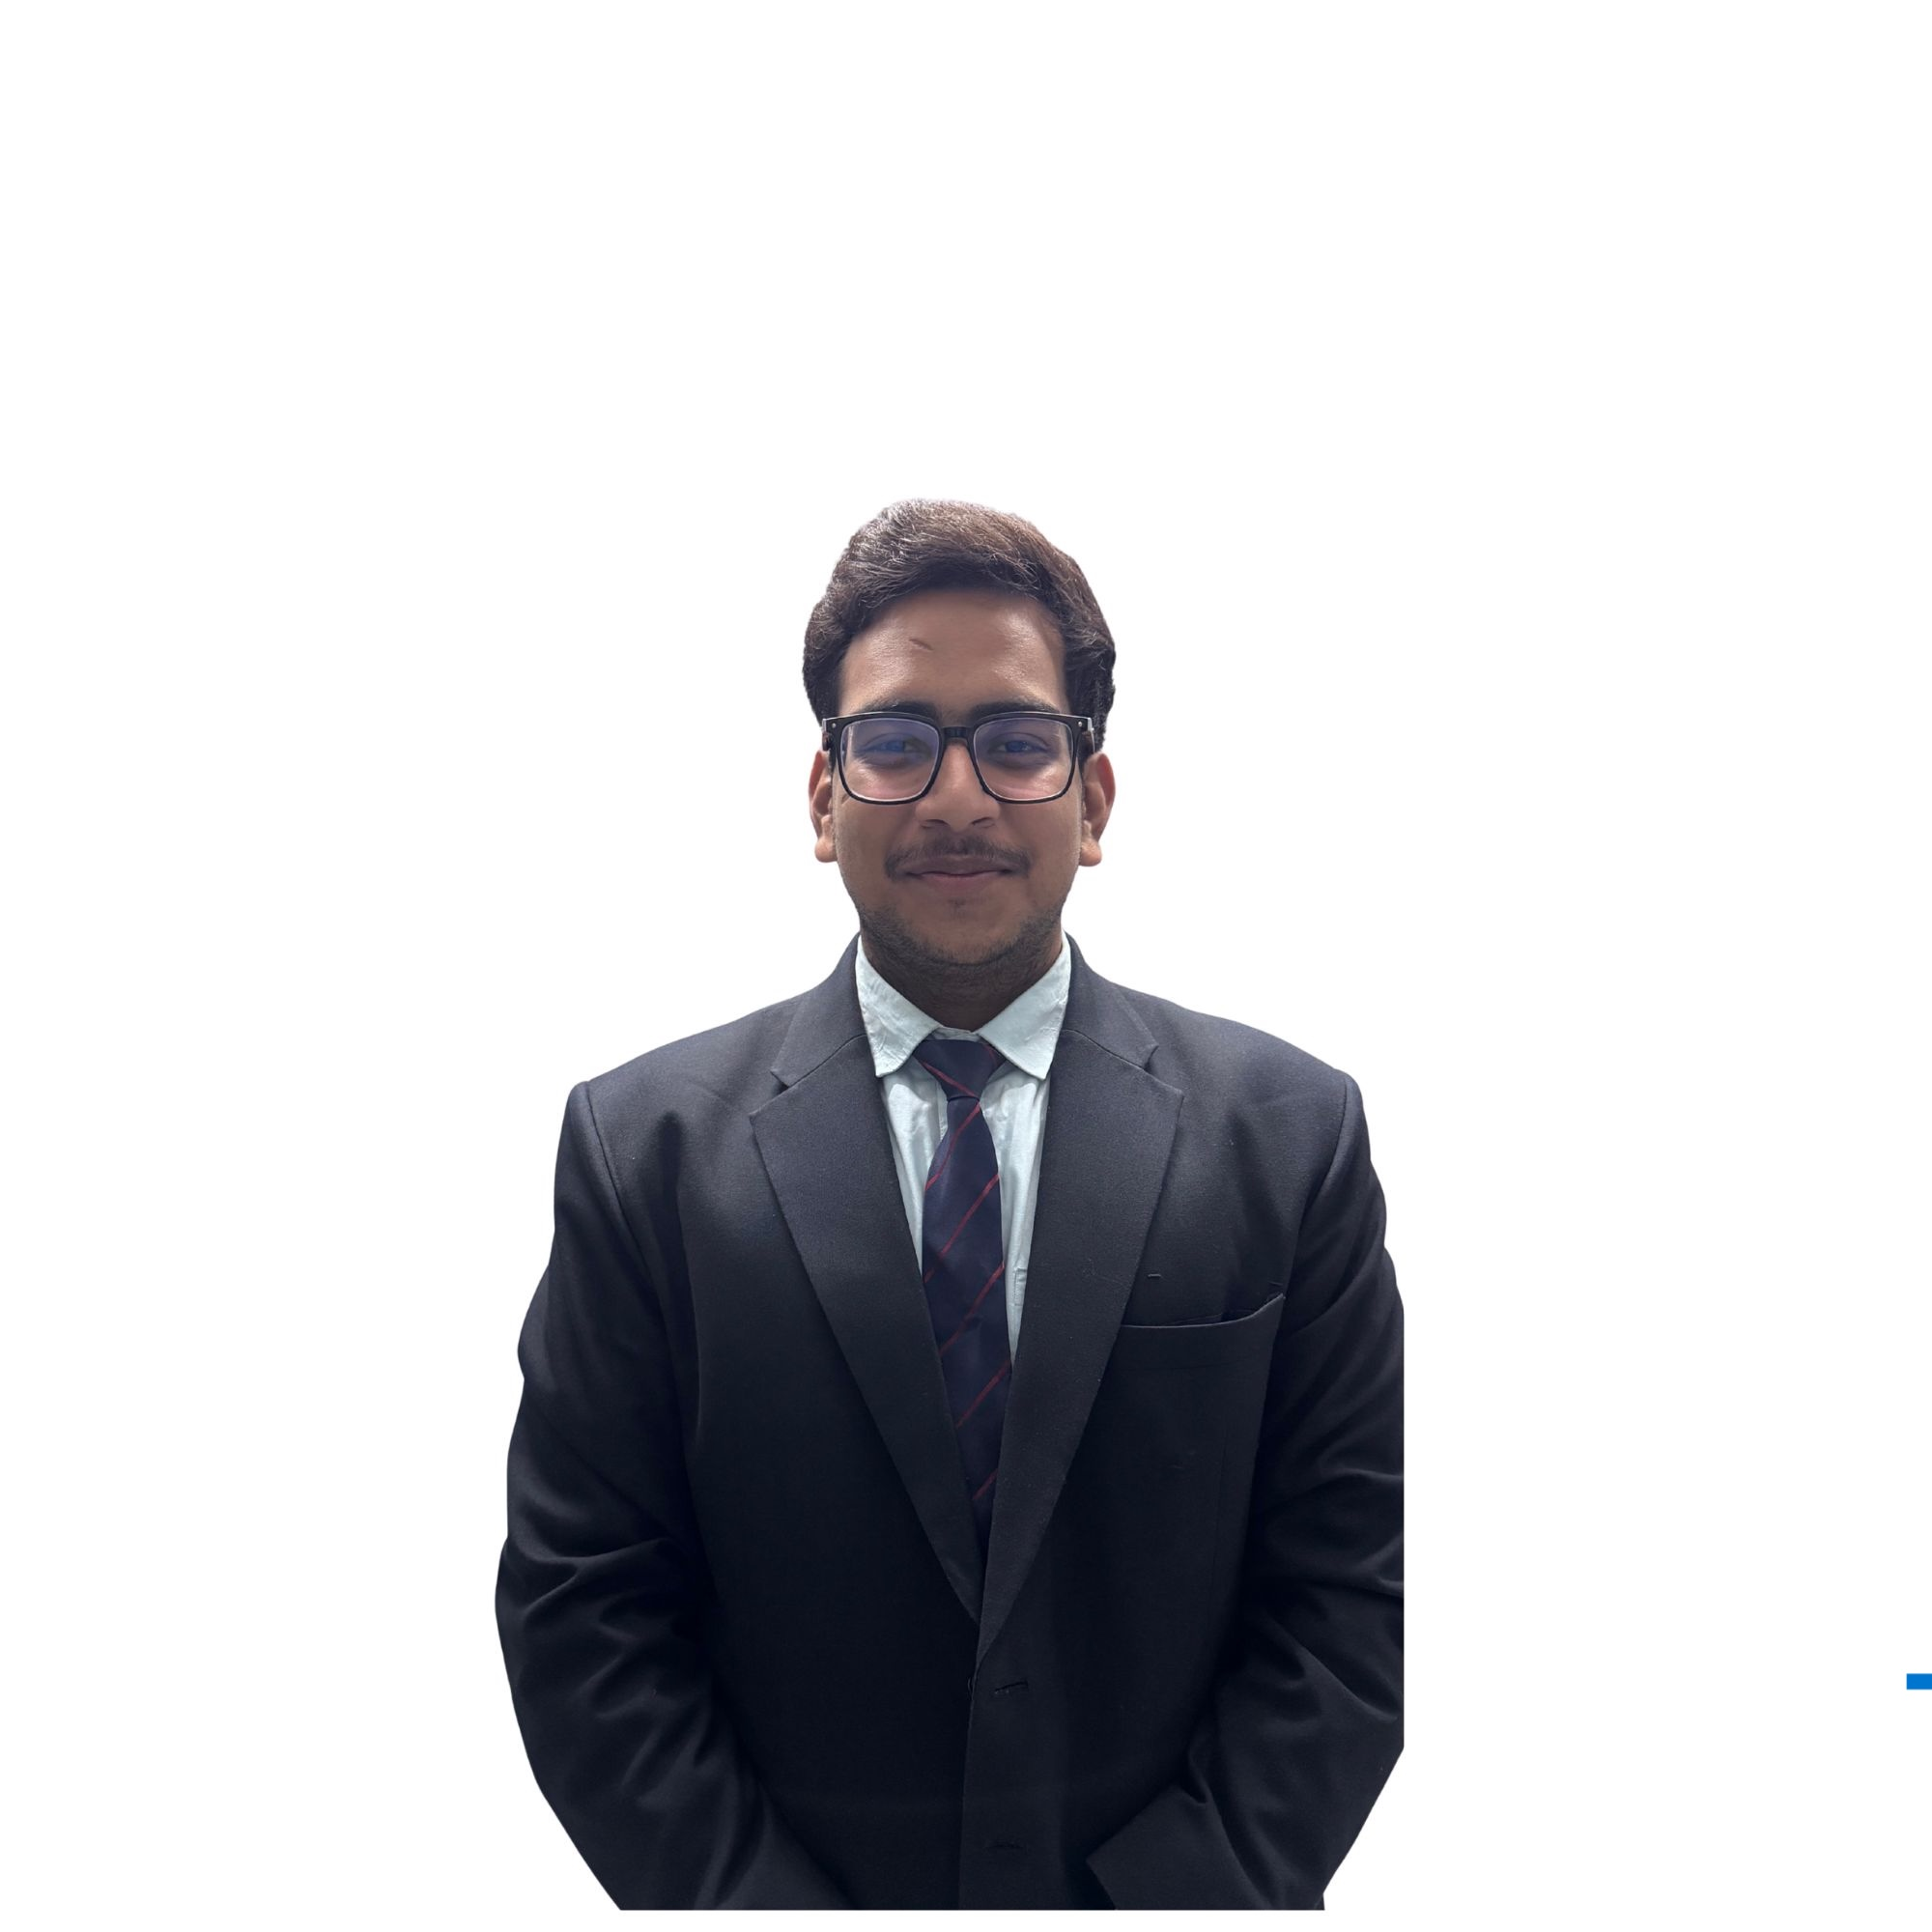
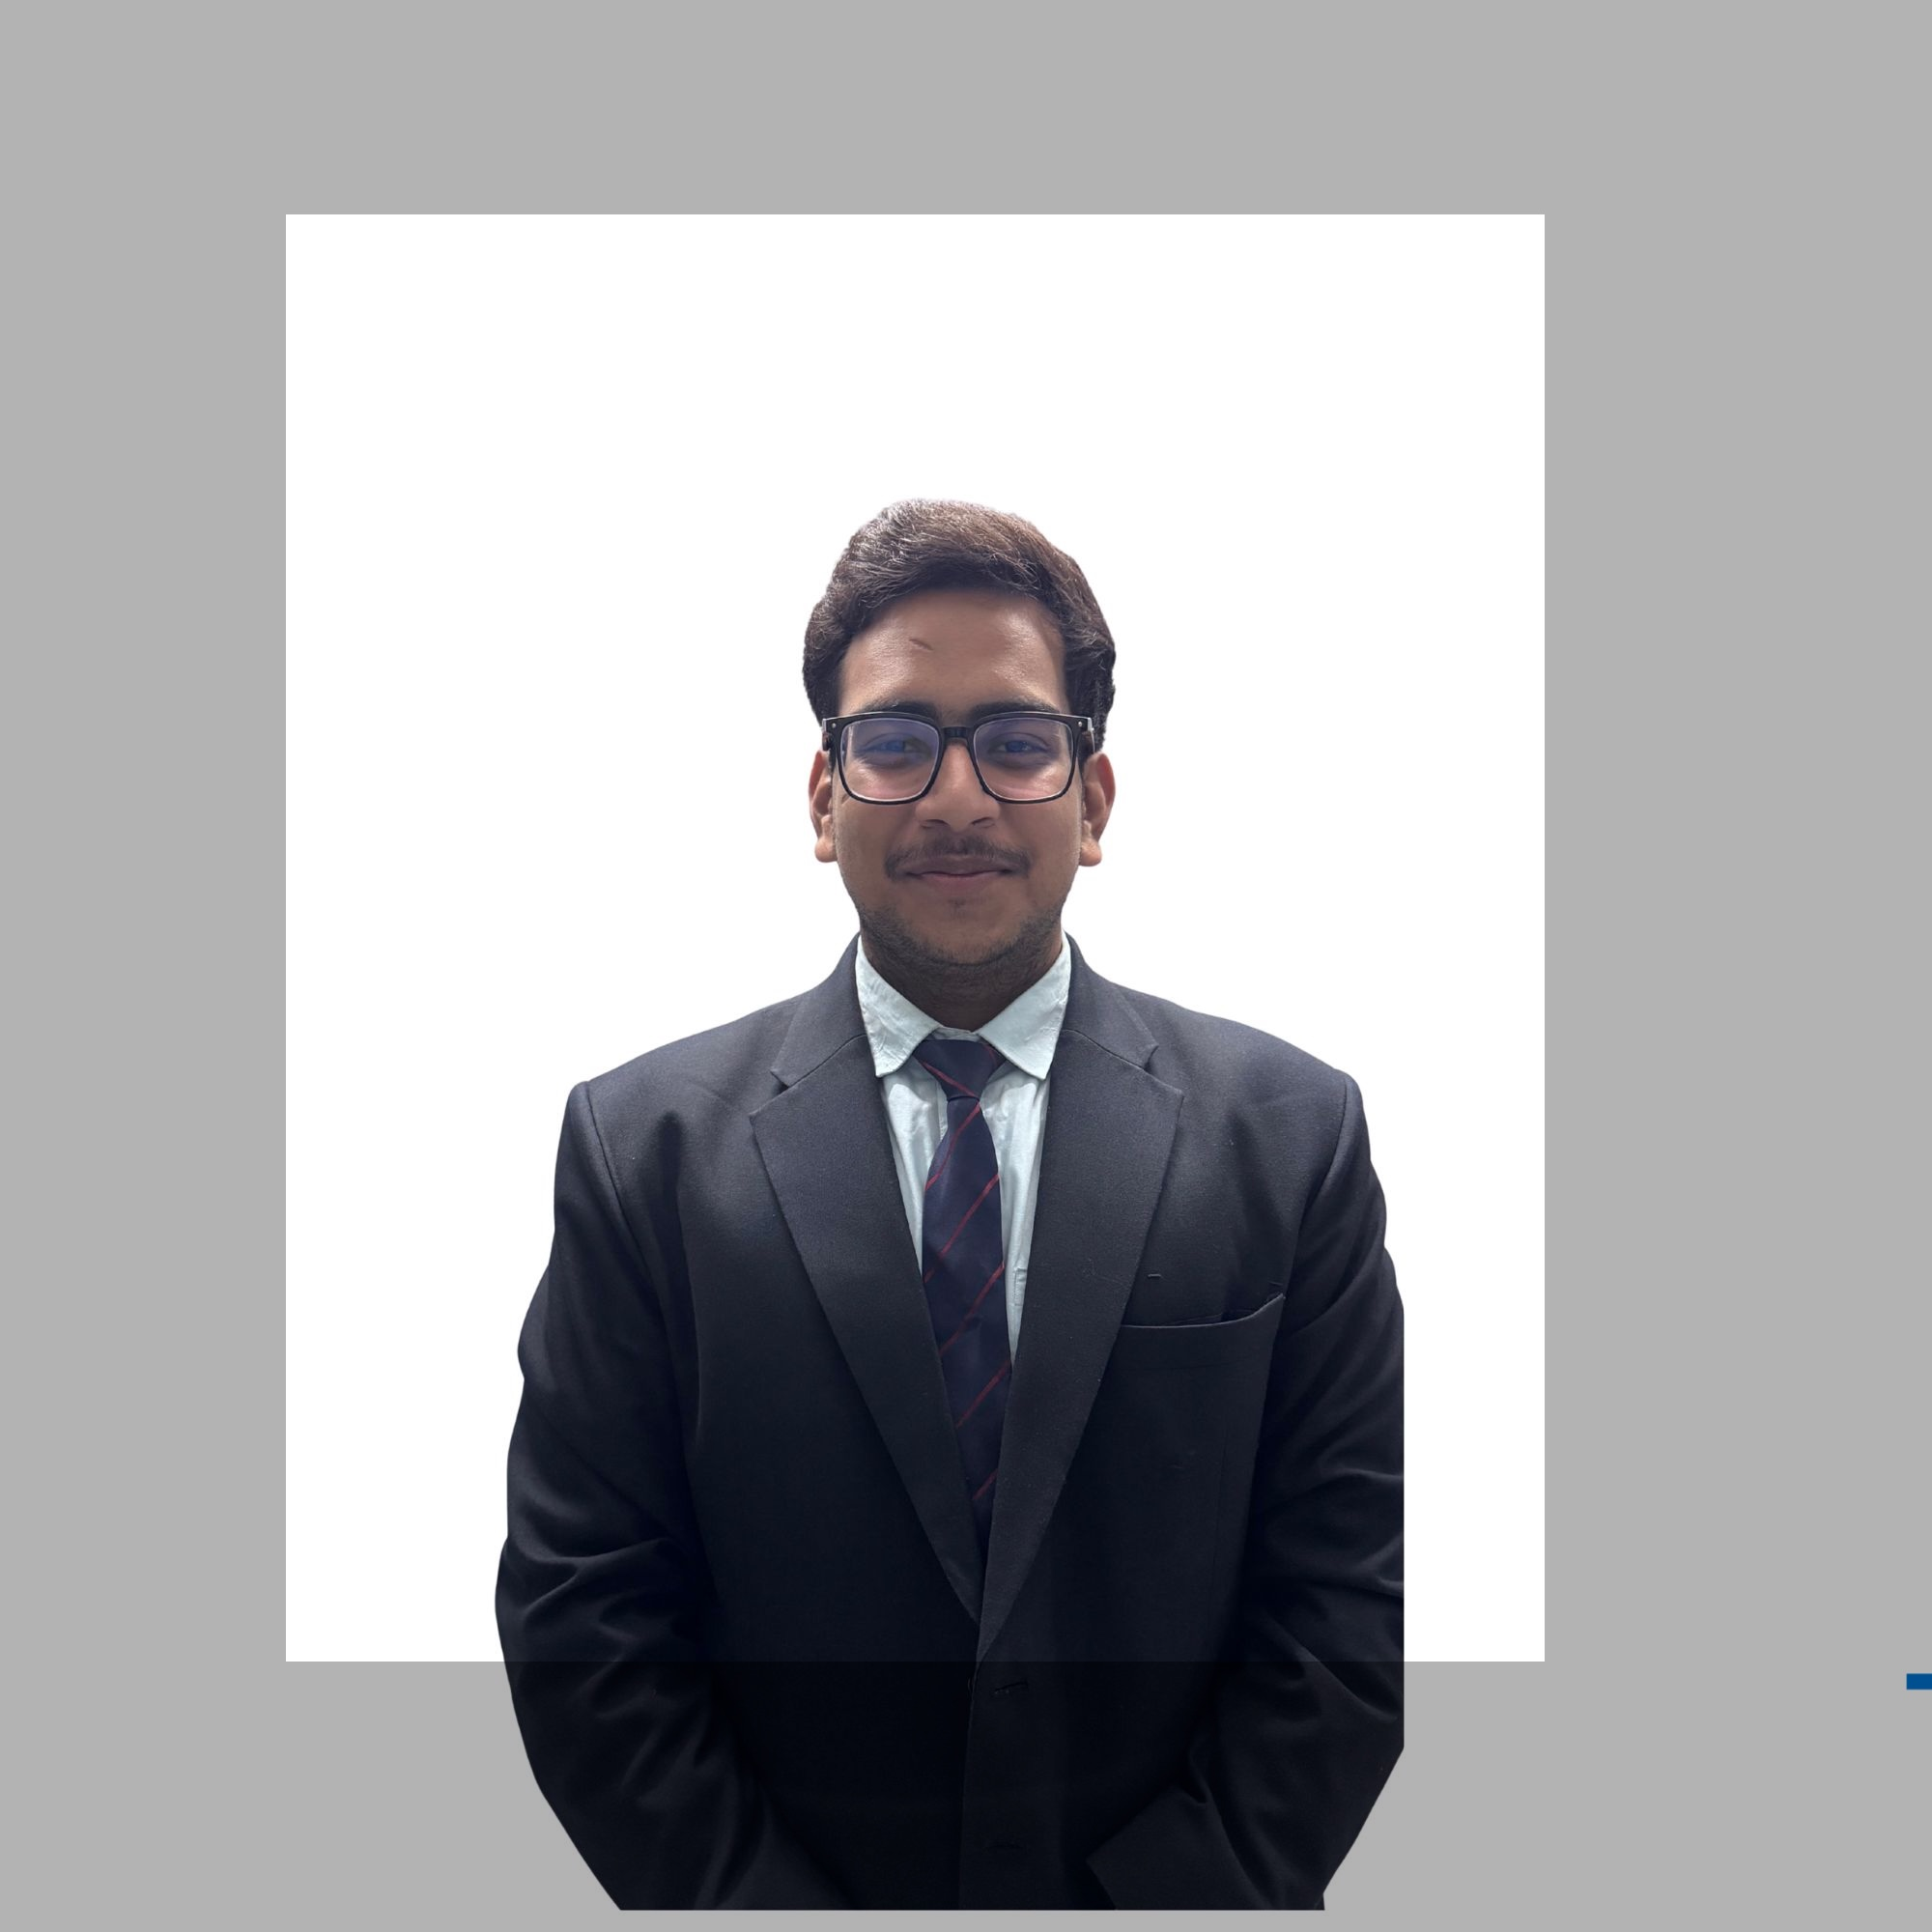
more edits done 4 section done

diff --git a/index.html b/index.html
@@ -10,6 +10,7 @@
   <link rel="preconnect" href="https://fonts.googleapis.com">
   <link rel="preconnect" href="https://fonts.gstatic.com" crossorigin>
   <link href="https://fonts.googleapis.com/css2?family=Outfit:wght@300;400;500;600;700;800&display=swap" rel="stylesheet">
+  <link href="https://cdnjs.cloudflare.com/ajax/libs/font-awesome/7.0.1/css/all.min.css" rel="stylesheet">
   
   <!-- CSS Stylesheet -->
   <link rel="stylesheet" href="styles.css">
@@ -42,8 +43,8 @@
         <a href="#home" class="nav-link active">Home</a>
         <a href="#about" class="nav-link">About</a>
         <a href="#skills" class="nav-link">Skills</a>
-        <a href="#projects" class="nav-link">Projects</a>
         <a href="#experience" class="nav-link">Experience</a>
+        <a href="#projects" class="nav-link">Projects</a>
         <a href="#iee-leadership" class="nav-link">IEEE</a>
         <a href="#achievements" class="nav-link">Achievements</a>
         <a href="#contact" class="nav-link">Contact</a>
@@ -54,9 +55,11 @@
           <i data-lucide="moon" class="theme-icon-dark"></i>
           <i data-lucide="sun" class="theme-icon-light"></i>
         </button>
-        <a href="#" class="btn btn-primary btn-sm btn-download-resume">
-          <span>Download Resume</span>
-          <i data-lucide="download" class="icon-sm"></i>
+        <a href="assets/Chirag_Katariya_Resume_v2.pdf"
+        target="_blank"
+        class="btn btn-primary btn-sm btn-download-resume">
+        <span>View Resume</span>
+        <i data-lucide="download" class="icon-sm"></i>
         </a>
         <button class="mobile-menu-toggle" id="mobile-toggle" aria-label="Toggle Menu">
           <i data-lucide="menu"></i>
@@ -87,22 +90,24 @@
             <span>View My Work</span>
             <i data-lucide="arrow-right"></i>
           </a>
-          <a href="#" class="btn btn-outline">
-            <span>Download Resume</span>
-            <i data-lucide="download"></i>
+          <a href="assets/Chirag_Katariya_Resume_v2.pdf"
+          target="_blank"
+          class="btn btn-primary btn-sm btn-download-resume">
+          <span>Download Resume</span>
+          <i data-lucide="download" class="icon-sm"></i>
           </a>
         </div>
         
         <div class="hero-socials reveal">
-          <a href="https://github.com/chirag18-n" target="_blank" rel="noopener noreferrer" class="social-link" aria-label="GitHub">
-            <i data-lucide="github"></i>
-          </a>
-          <a href="https://www.linkedin.com/in/chirag-katariya-0922b032b/" target="_blank" rel="noopener noreferrer" class="social-link" aria-label="LinkedIn">
-            <i data-lucide="linkedin"></i>
-          </a>
-          <a href="mailto:[email redacted]" class="social-link" aria-label="Email">
-            <i data-lucide="mail"></i>
-          </a>
+          <a href="https://github.com/chirag18-n" target="_blank" rel="noopener noreferrer" class="footer-social-link" aria-label="GitHub">
+          <i class="fa-brands fa-github"></i>
+        </a>
+        <a href="https://www.linkedin.com/in/chirag-katariya-0922b032b/" target="_blank" rel="noopener noreferrer" class="footer-social-link" aria-label="LinkedIn">
+          <i class="fa-brands fa-linkedin-in"></i>
+        </a>
+        <a href="mailto:[email redacted]" class="footer-social-link" aria-label="Email">
+          <i data-lucide="mail"></i>
+        </a>
         </div>
       </div>
       
@@ -111,7 +116,7 @@
           <div class="ring ring-outer"></div>
           <div class="ring ring-middle"></div>
           <div class="ring ring-inner"></div>
-          <img src="assets/chirag-profile.jpg" alt="Chirag Katariya Portrait" class="profile-image">
+          <img src="assets/PHOTO-2026-06-29-14-12-57.jpg" alt="Chirag Katariya Portrait" class="profile-image">
         </div>
         
         <!-- Floating Badges -->
@@ -620,7 +625,7 @@
             </div>
             <div class="contact-info">
               <span class="contact-label">Mail</span>
-              <span class="contact-value">[email redacted]</span>
+              <span class="contact-value">[email redacted]</span>
             </div>
           </a>
           
@@ -631,7 +636,7 @@
             </div>
             <div class="contact-info">
               <span class="contact-label">Phone</span>
-              <span class="contact-value">+91 9752948167</span>
+              <span class="contact-value">+91 9752848167</span>
             </div>
           </a>
           
@@ -662,13 +667,13 @@
       <p class="footer-copy">&copy; 2026 Chirag Katariya. All rights reserved.</p>
       
       <div class="footer-socials">
-        <a href="https://github.com/chirag-katariya" target="_blank" rel="noopener noreferrer" class="footer-social-link" aria-label="GitHub">
-          <i data-lucide="github"></i>
+        <a href="https://github.com/chirag18-n" target="_blank" rel="noopener noreferrer" class="footer-social-link" aria-label="GitHub">
+          <i class="fa-brands fa-github"></i>
         </a>
-        <a href="https://linkedin.com/in/chirag-katariya" target="_blank" rel="noopener noreferrer" class="footer-social-link" aria-label="LinkedIn">
-          <i data-lucide="linkedin"></i>
+        <a href="https://www.linkedin.com/in/chirag-katariya-0922b032b/" target="_blank" rel="noopener noreferrer" class="footer-social-link" aria-label="LinkedIn">
+          <i class="fa-brands fa-linkedin-in"></i>
         </a>
-        <a href="mailto:[email redacted]" class="footer-social-link" aria-label="Email">
+        <a href="mailto:[email redacted]" class="footer-social-link" aria-label="Email">
           <i data-lucide="mail"></i>
         </a>
       </div>